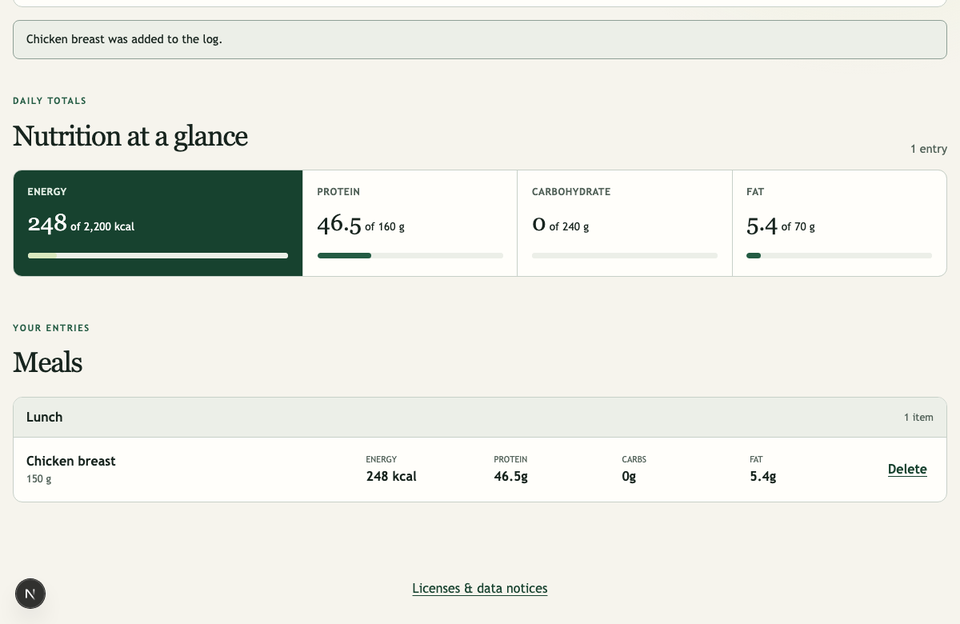
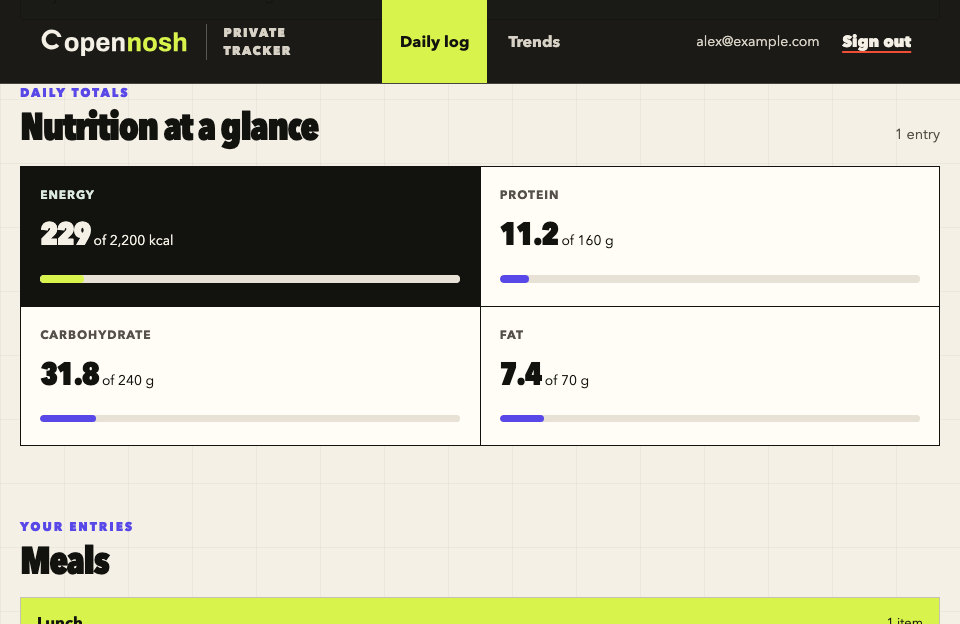
docs: refresh the Tracker demo
Replace the stale walkthrough with a compact branded Rajma masala search-and-log flow and matching daily-total image.

diff --git a/README.md b/README.md
@@ -5,9 +5,9 @@ Self-hosted nutrition and strength tracking built around food data the community
 Website: [opennosh.org](https://opennosh.org) — the public Commons and private Tracker are live on
 the production Render deployment.
 
-![Animated opennosh demo: search for chicken breast, select 150 grams for lunch, add it, then view updated daily calorie and macro totals.](docs/assets/opennosh-search-log-demo.gif)
+![Animated opennosh Tracker demo: search for Rajma masala, select 180 grams for lunch, add it, then view updated daily calorie and macro totals.](docs/assets/opennosh-search-log-demo.gif)
 
-_Search the food catalogue, log a serving, and see the daily totals update. The animation plays once;
+_Search an open food record, log a serving in the private Tracker, and see the daily totals update. The animation plays once;
 [view the final daily-total screen](docs/assets/opennosh-daily-total.png)._
 
 > **Build status:** The scoped v1 implementation and both human review gates are complete. The [v1 implementation epic](https://github.com/RujitRaval/opennosh/issues/3) records the shipped work and public-launch evidence.
